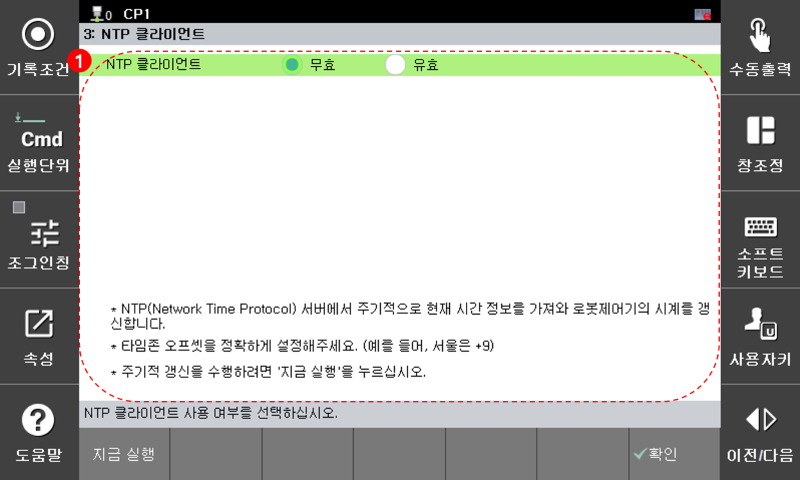
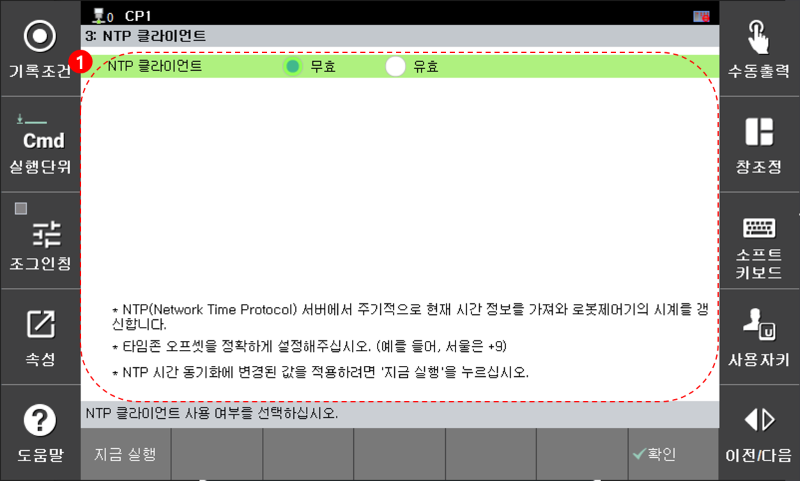
TP 부팅 시 NTP 시간 동기화 수행 기능 추가에 따른 내용 수정

diff --git a/3-use-ntp-client/1-setting.md b/3-use-ntp-client/1-setting.md
@@ -60,7 +60,7 @@
     <img src="../_assets/n4.png" alt/>
    </td>
    <td style="text-align:left">
-    NTP 시간 동기화를 수행합니다. <b>최초 TP 부팅 시</b> 또는 <b>설정값 변경 시</b>, 주기적 갱신을 수행하려면 '지금 실행' 버튼을 터치하십시오.
+    NTP 시간 동기화를 수행합니다.
    </td>
   </tr>
   <tr>
@@ -68,7 +68,7 @@
     <img src="../_assets/n5.png" alt/>
    </td>
    <td style="text-align:left">
-    설정을 저장합니다. 변경된 설정값을 반영하기 위해서는 '지금 실행' 버튼을 터치하십시오.
+    설정을 저장합니다. NTP 시간 동기화에 변경된 설정값을 적용하기 위해서는 '지금 실행' 버튼을 터치하십시오.
    </td>
   </tr>
  </tbody>
